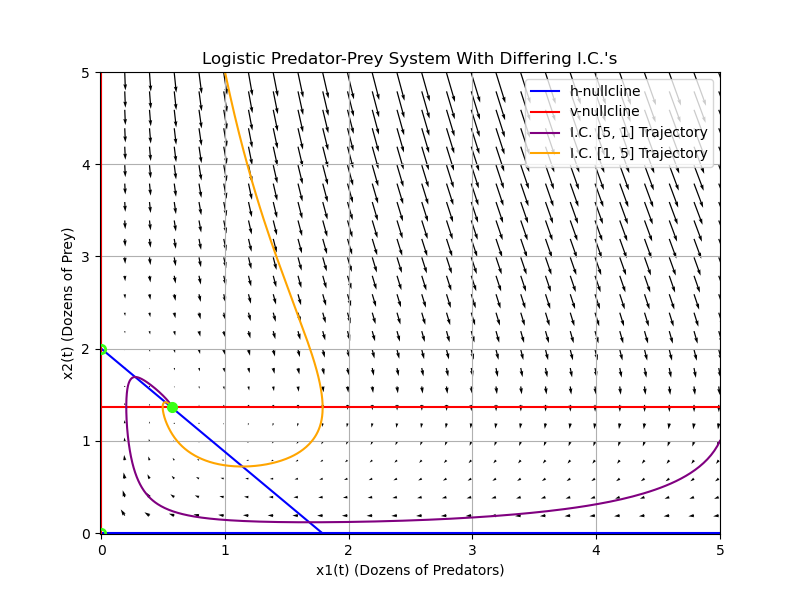
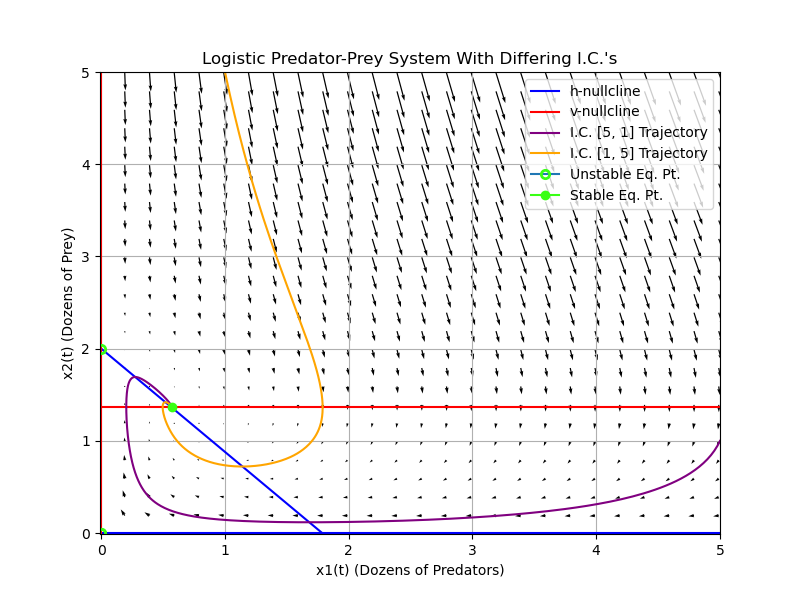
updated task c legend

Changed region(s): [[0.6562, 0.27, 0.875, 0.36]]

diff --git a/Code/task_set_c.py b/Code/task_set_c.py
@@ -39,7 +39,8 @@ def task_2c_phase_plane_and_trajectories(params):
     a, b, g, d, k = params
     task_1_nullclines_and_equilibrium(params)
     task_2a_vector_field()
-    eq_sols = [[0,0,"unstable"], [0,2,"unstable"], [(g/d)*(1-(k*a)/b), a/b, "stable"]]
+    stable_eq_sols = [(g/d)*(1-(k*a)/b), a/b, "stable"]
+    unstable_eq_sols = [[0,0,"unstable"], [0,2,"unstable"]]
 
     solutions = task_2b_solve_ode_system()
     labels = ["I.C. [5, 1] Trajectory", "I.C. [1, 5] Trajectory"]
@@ -49,14 +50,18 @@ def task_2c_phase_plane_and_trajectories(params):
         x2 = solutions[i].y[1]
         plt.plot(x1, x2, label=labels[i], color=colors[i])
 
-    for i in range(len(eq_sols)):
-        if eq_sols[i][2] == "stable":
-            x_points = eq_sols[i][0]
-            y_points = eq_sols[i][1]
-            plt.plot(x_points, y_points, color='#39FF14', marker="o")
-        x_points = eq_sols[i][0]
-        y_points = eq_sols[i][1]
+    for i in range(len(unstable_eq_sols)):
+        if i == 0:
+            x_points = unstable_eq_sols[i][0]
+            y_points = unstable_eq_sols[i][1]
+            plt.plot(x_points, y_points, marker="o", markerfacecolor='none', markeredgecolor='#39FF14', markeredgewidth=2, label="Unstable Eq. Pt.")
+        x_points = unstable_eq_sols[i][0]
+        y_points = unstable_eq_sols[i][1]
         plt.plot(x_points, y_points, marker="o", markerfacecolor='none', markeredgecolor='#39FF14', markeredgewidth=2)
+    x_points = stable_eq_sols[0]
+    y_points = stable_eq_sols[1]
+    plt.plot(x_points, y_points, marker="o", label="Stable Eq. Pt.", color='#39FF14')
+        
     plt.title("Logistic Predator-Prey System With Differing I.C.'s")
     plt.xlabel("x1(t) (Dozens of Predators)")
     plt.ylabel("x2(t) (Dozens of Prey)")
